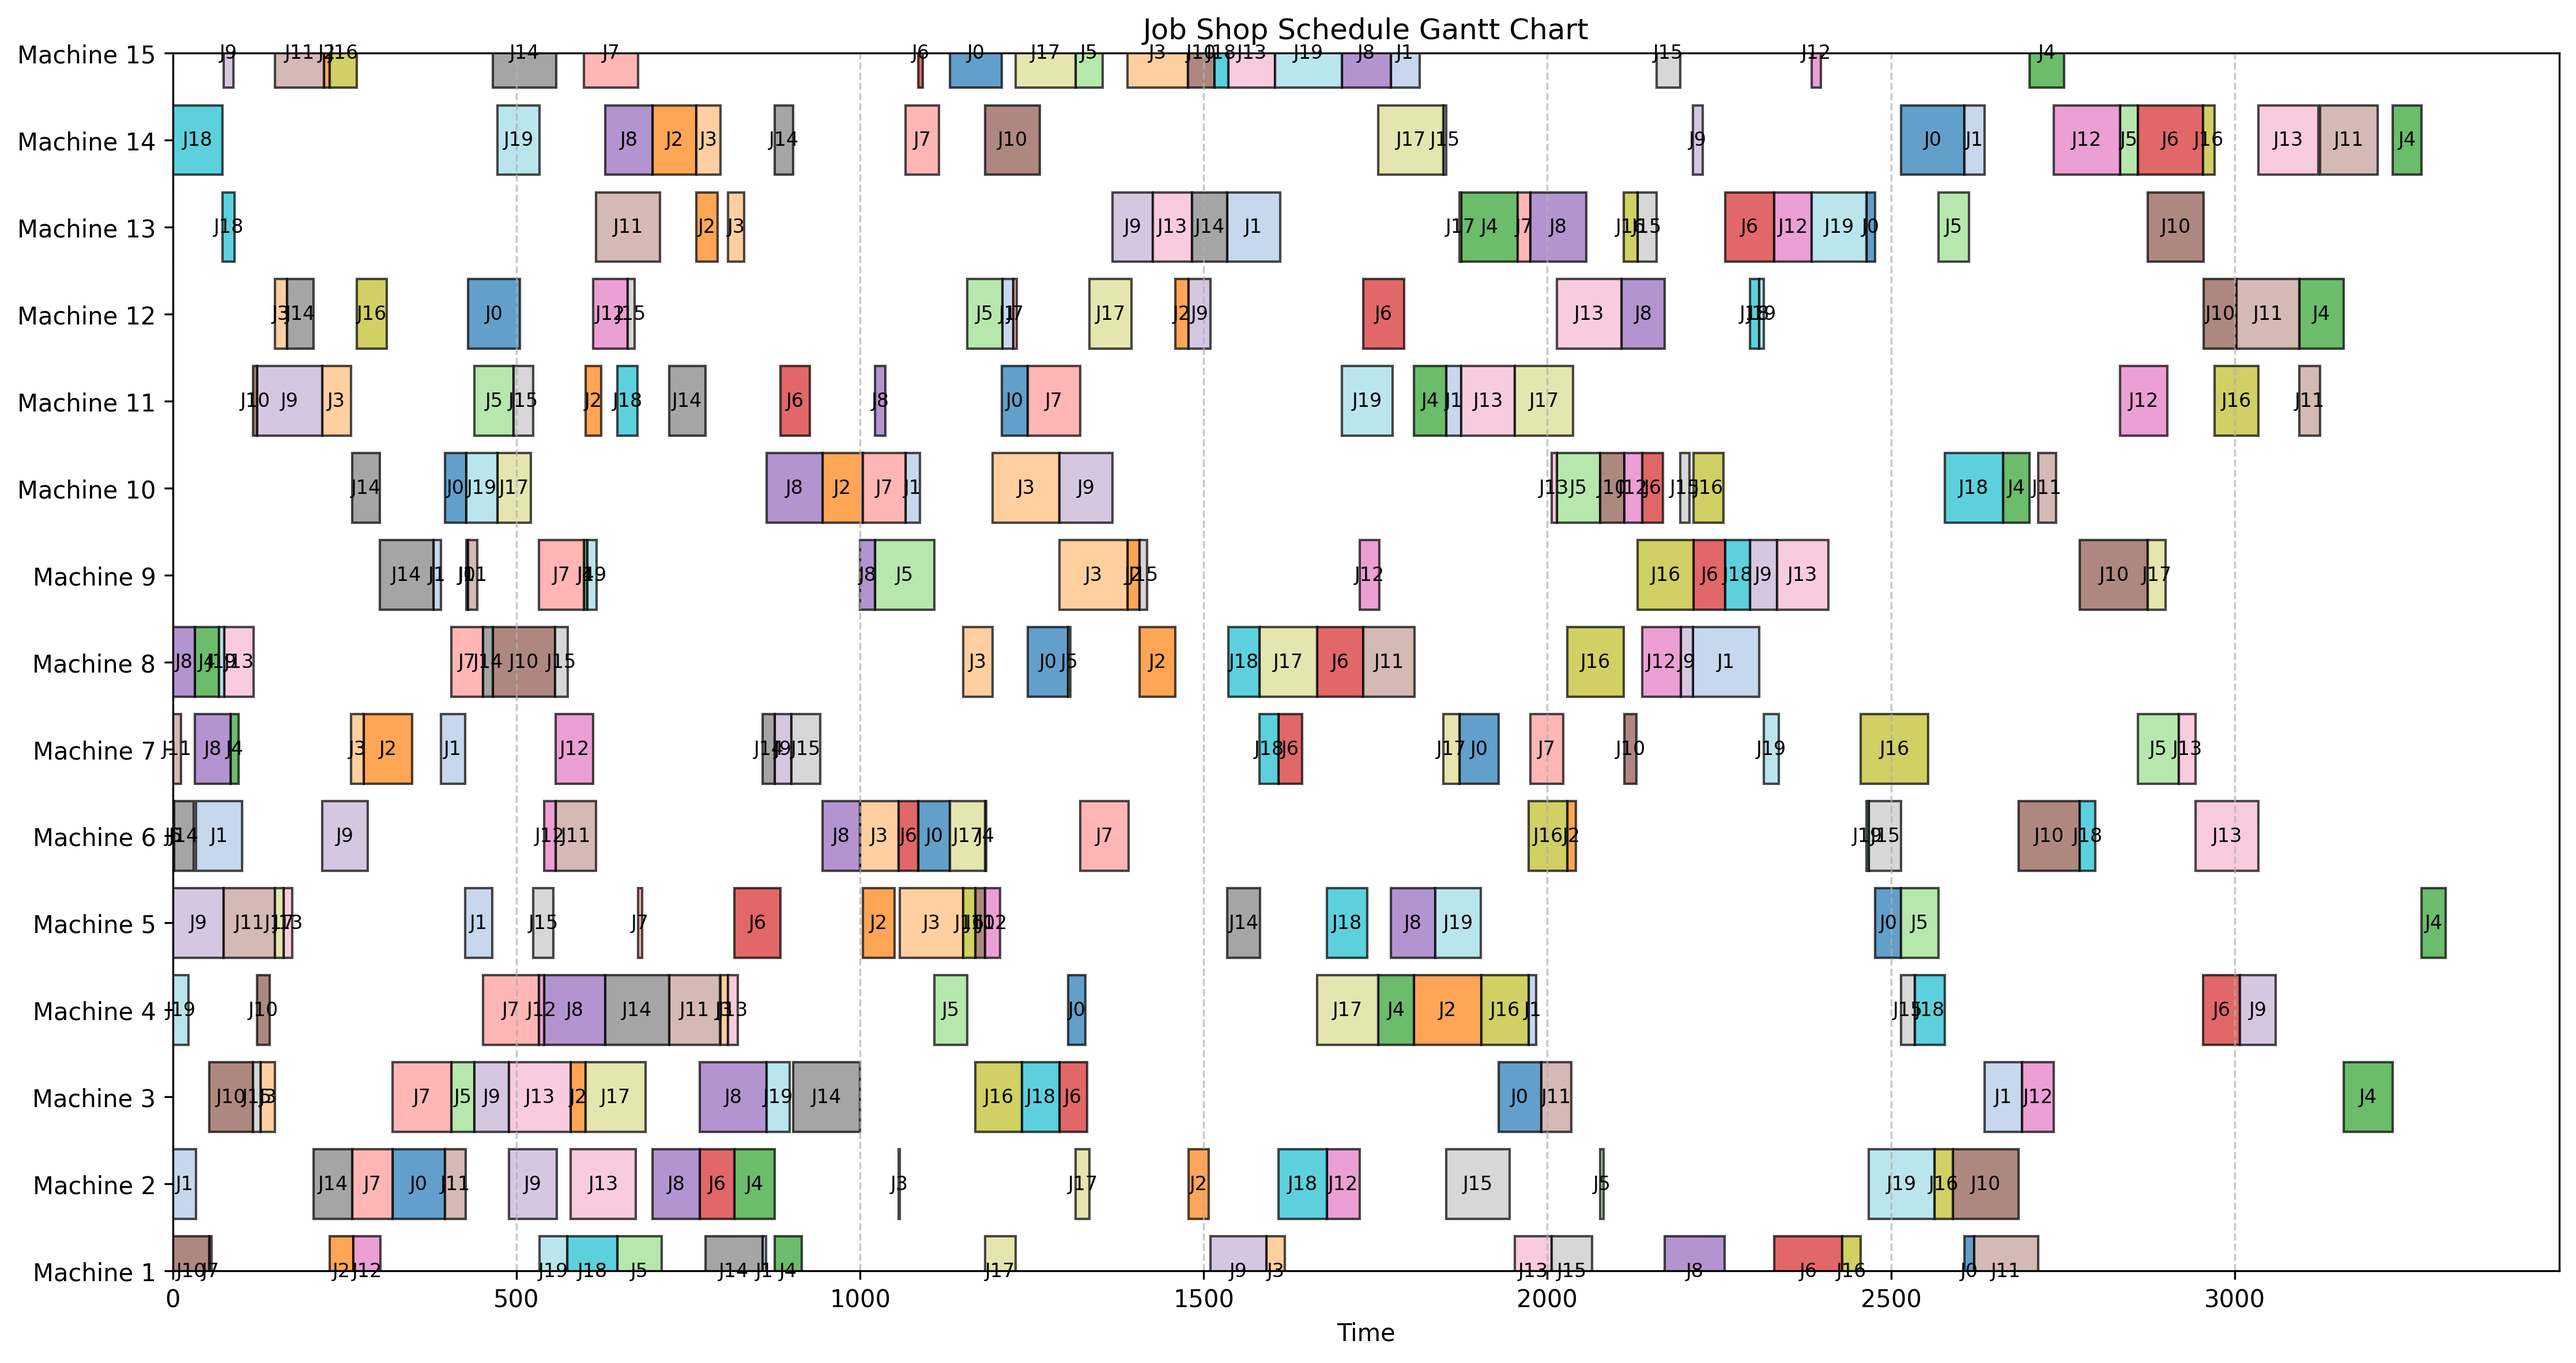
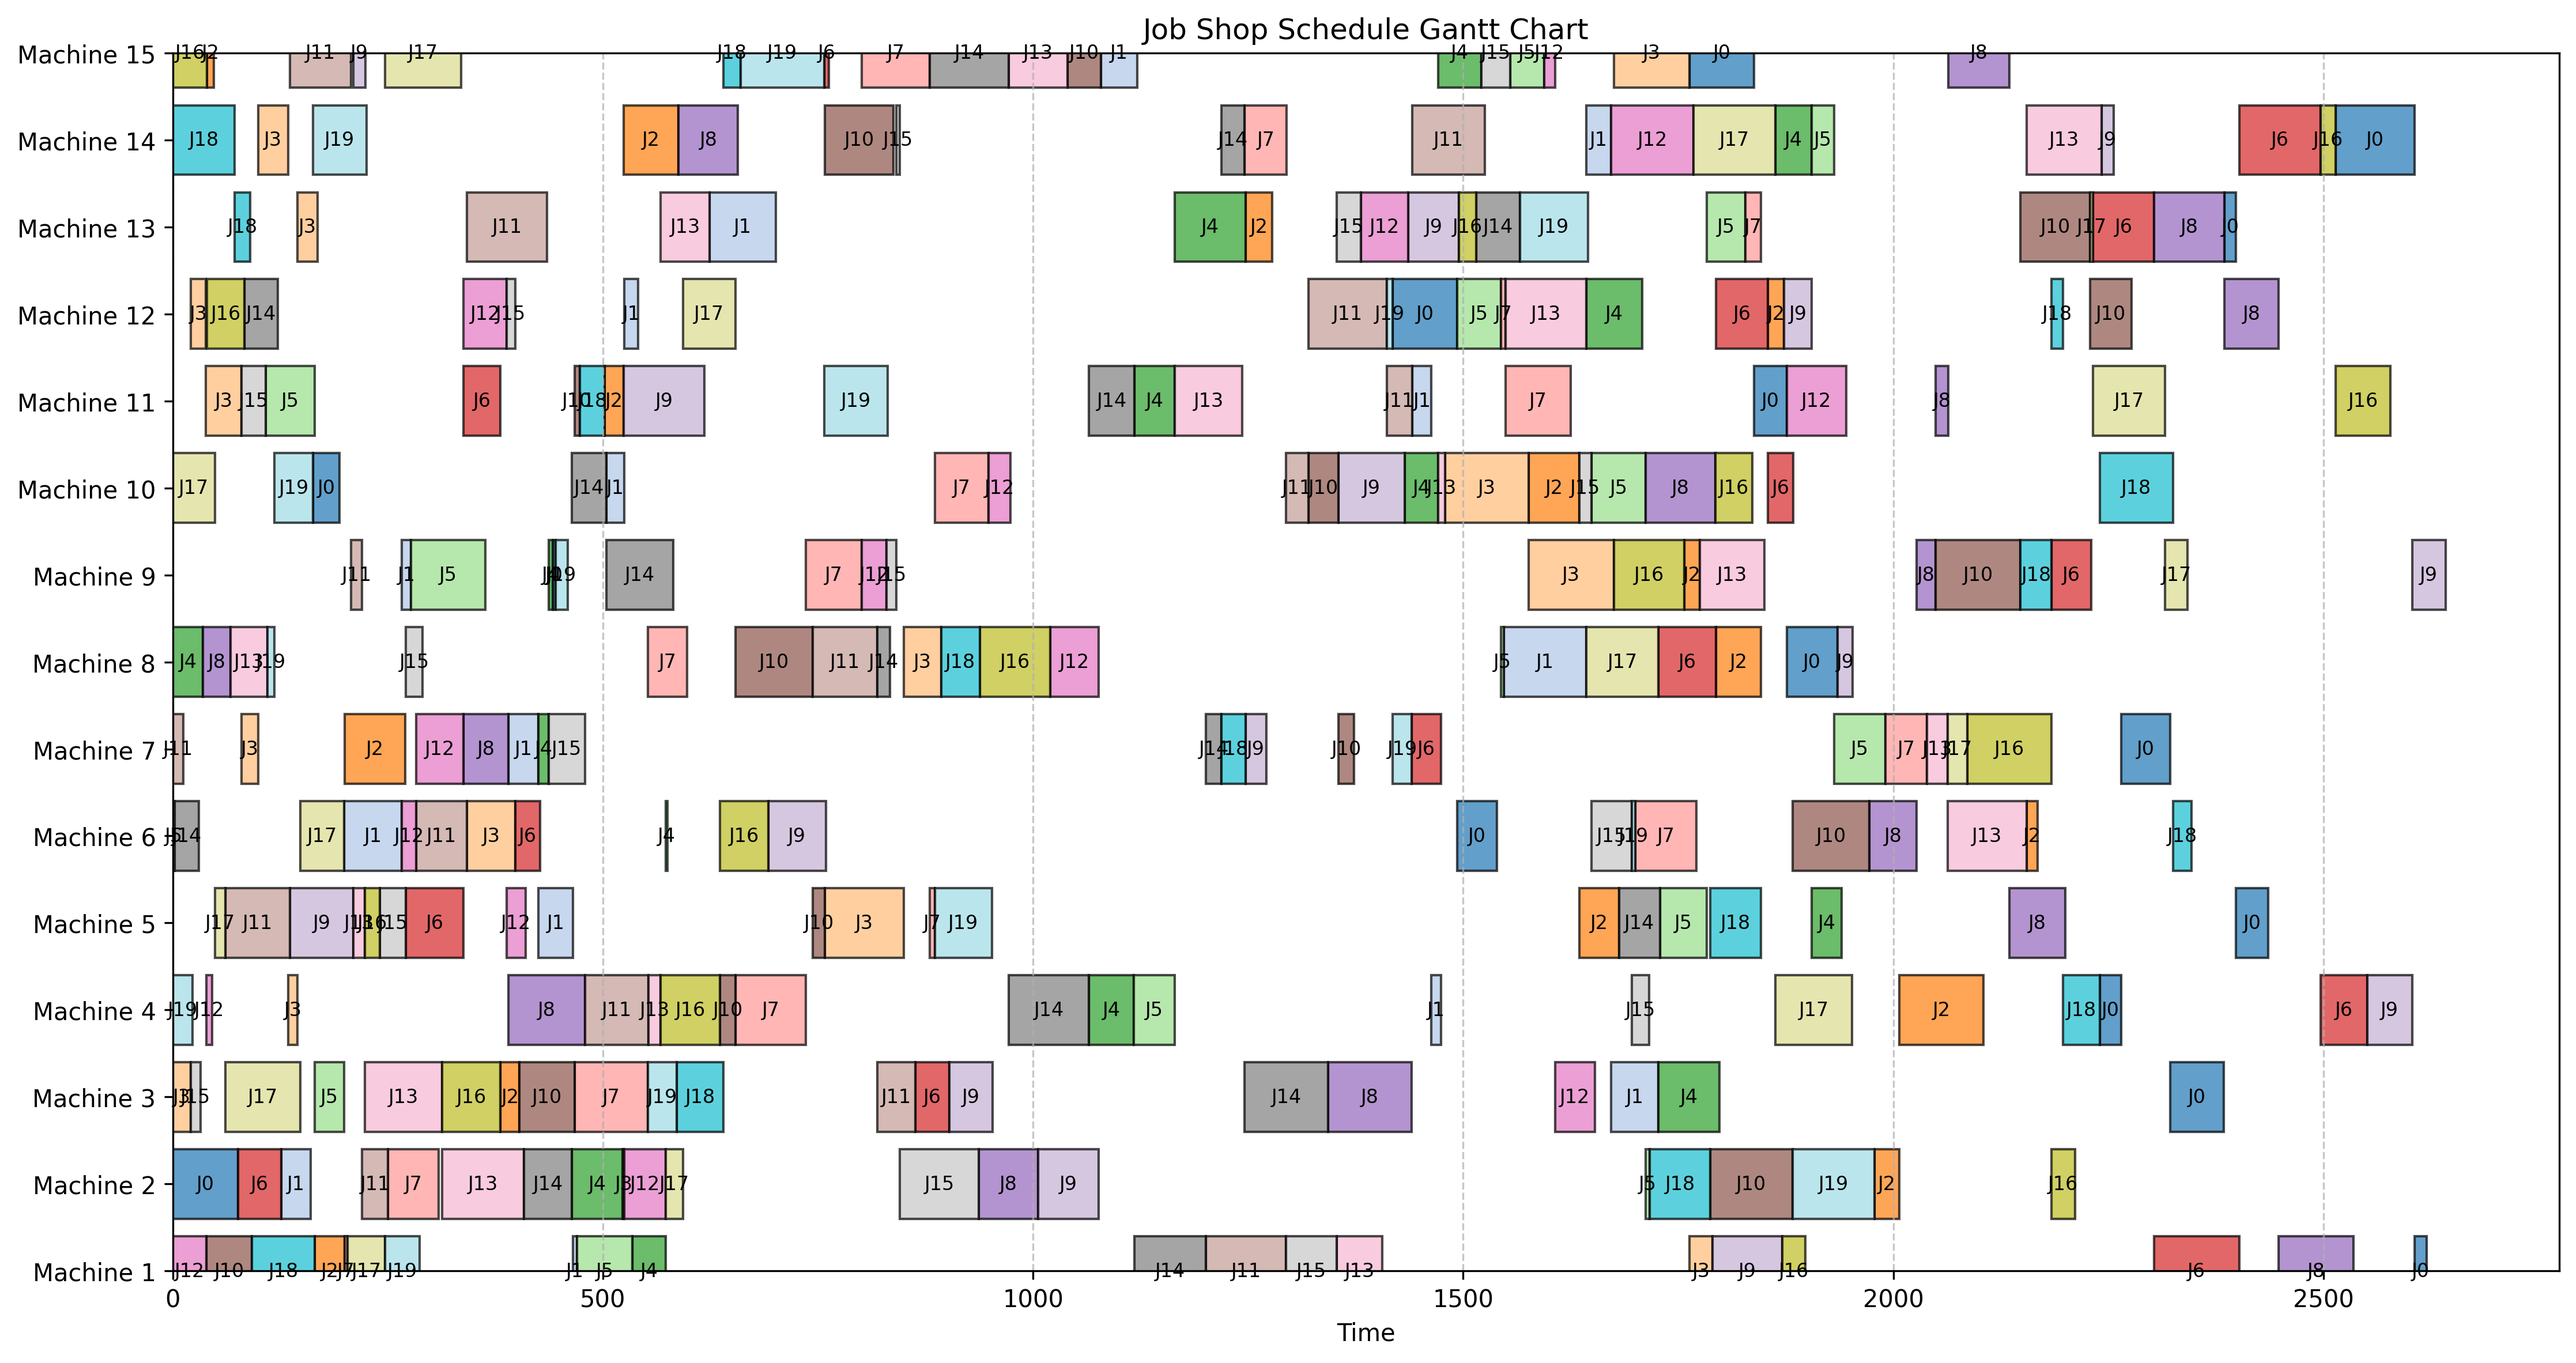
tests + corrected dfs import + changed main to consider one specific file

diff --git a/main.py b/main.py
@@ -2,12 +2,9 @@ import os
 from src.modules.jsspProcessor import JSSPProcessor
 
 if __name__ == "__main__":
-    dataset_folder = "./src/data/processed/data_20j_15m"
 
-    for filename in os.listdir(dataset_folder):
-        if filename.endswith(".txt"):
-            dataset_path = os.path.join(dataset_folder, filename)
-            processor = JSSPProcessor(dataset_path)
-            best_schedule, best_makespan, exec_time = processor.run(
-                num_particles=100, max_iter=200, w=0.9, c1=0.7, c2=2
-            )
+    dataset_path = "./src/data/processed/data_20j_15m/data_20j_15m_1.txt"  # Replace with your dataset path
+    processor = JSSPProcessor(dataset_path)
+    best_schedule, best_makespan, exec_time = processor.run(
+        num_particles=10, max_iter=50, w=0.7, c1=2.0, c2=1.0
+     )

diff --git a/dfs_amelioré.py b/dfs_amelioré.py
@@ -1,7 +1,7 @@
 import numpy as np  
 from copy import deepcopy  
 import time 
-from modelisation import Operation, Job, JSSP  
+from src.modules.modelisation import Operation, Job, JSSP  
 
 class JSSPSolverDFS:
     def __init__(self, jssp_instance):
